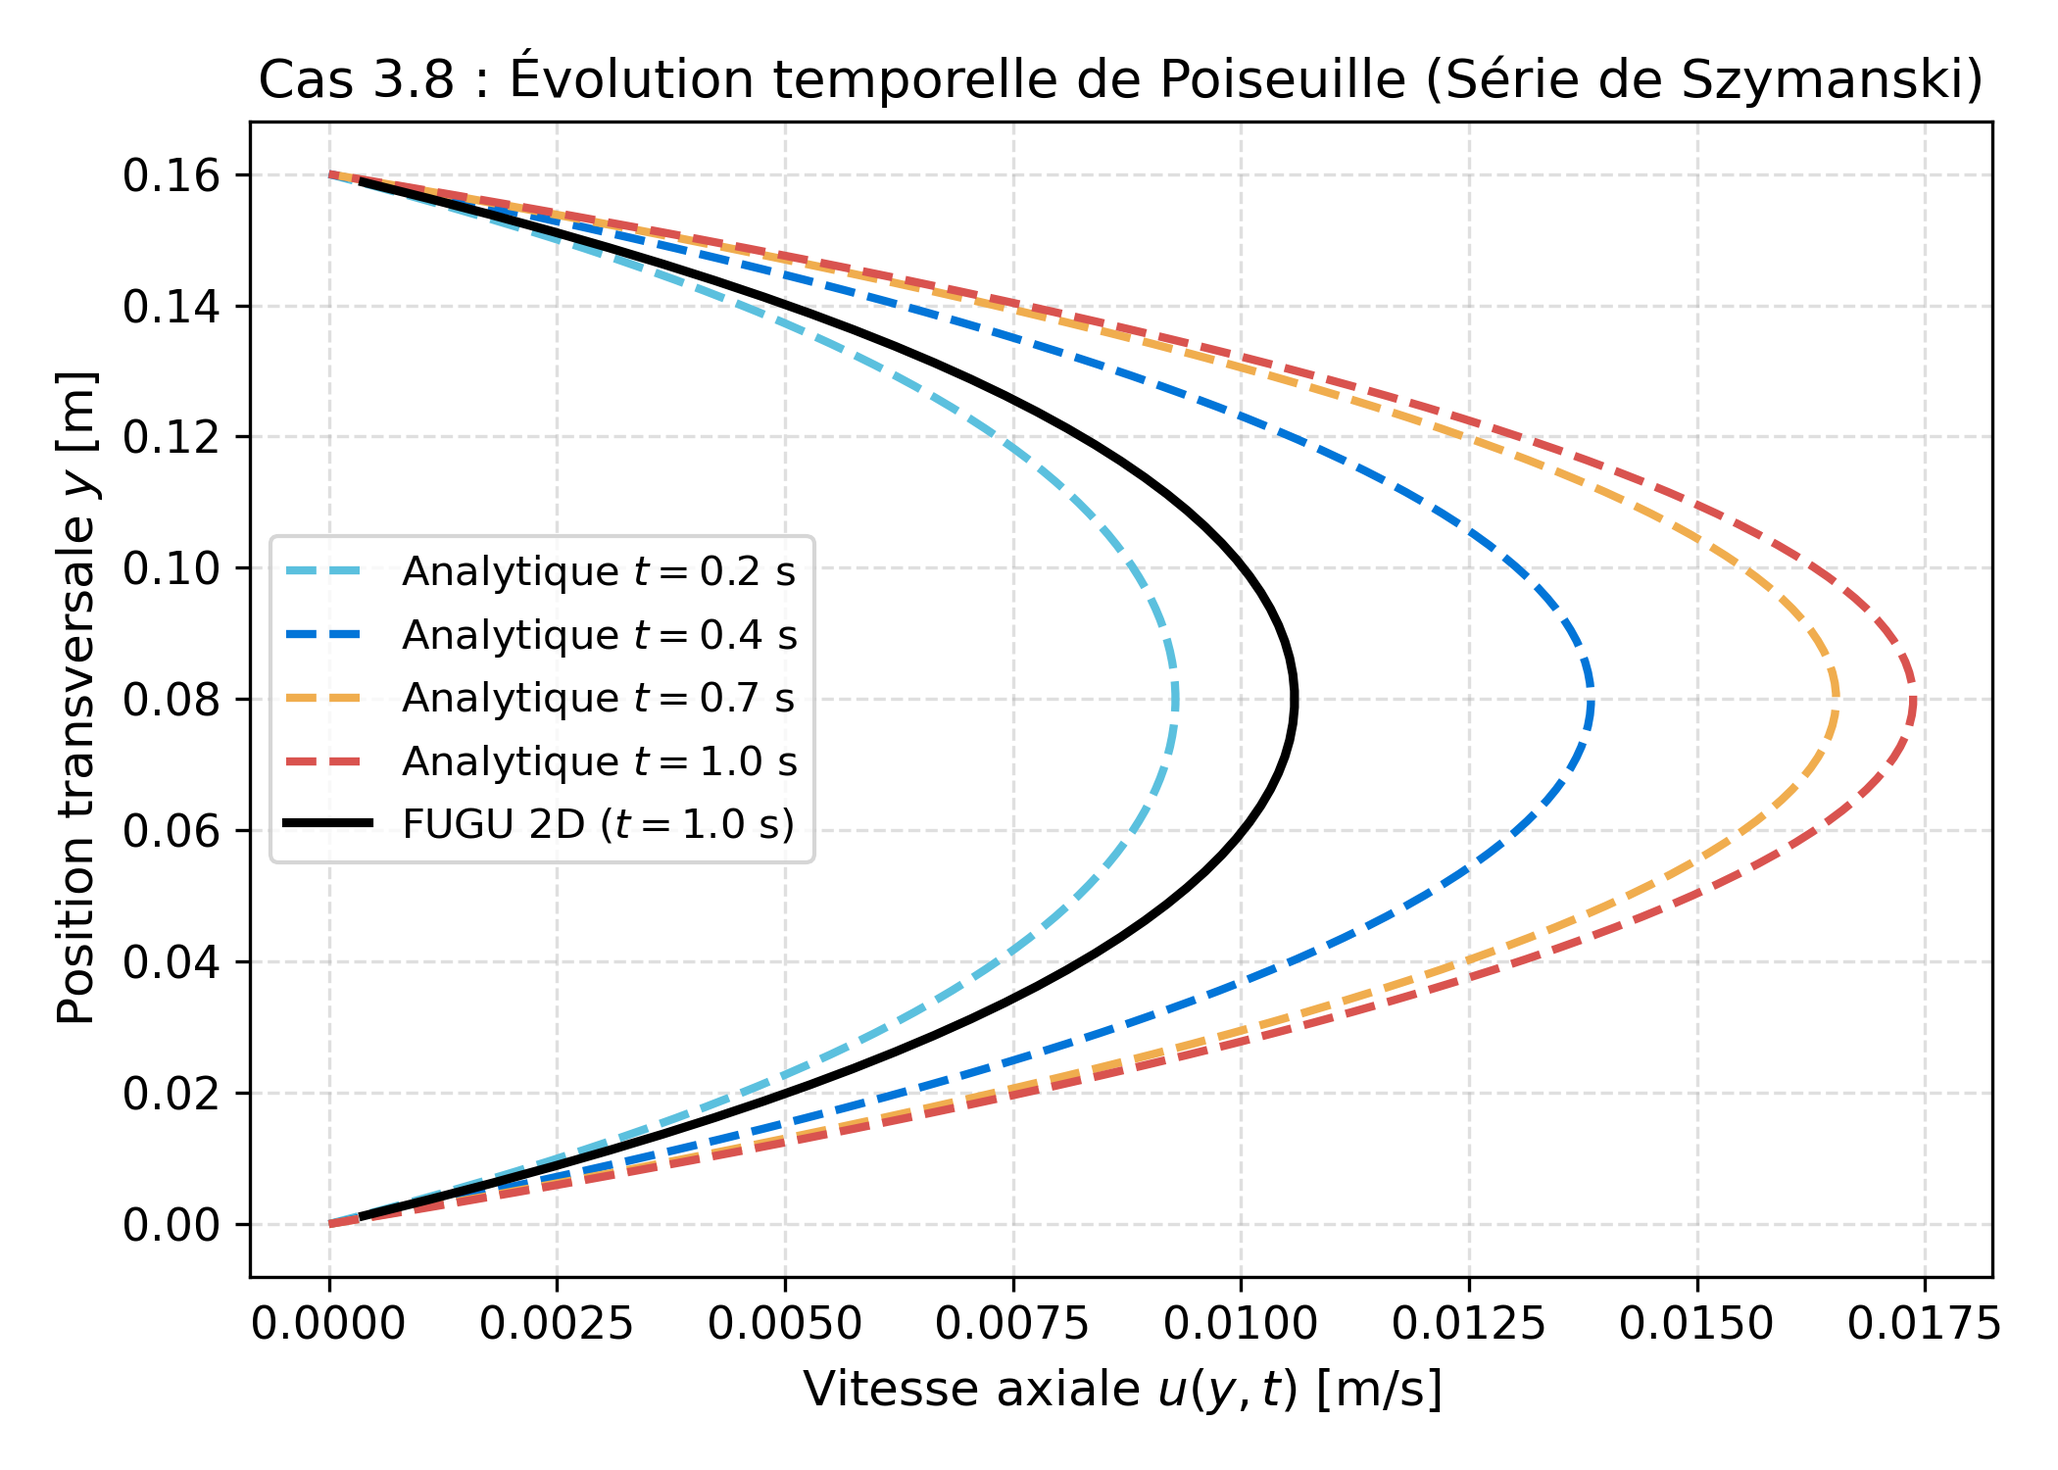
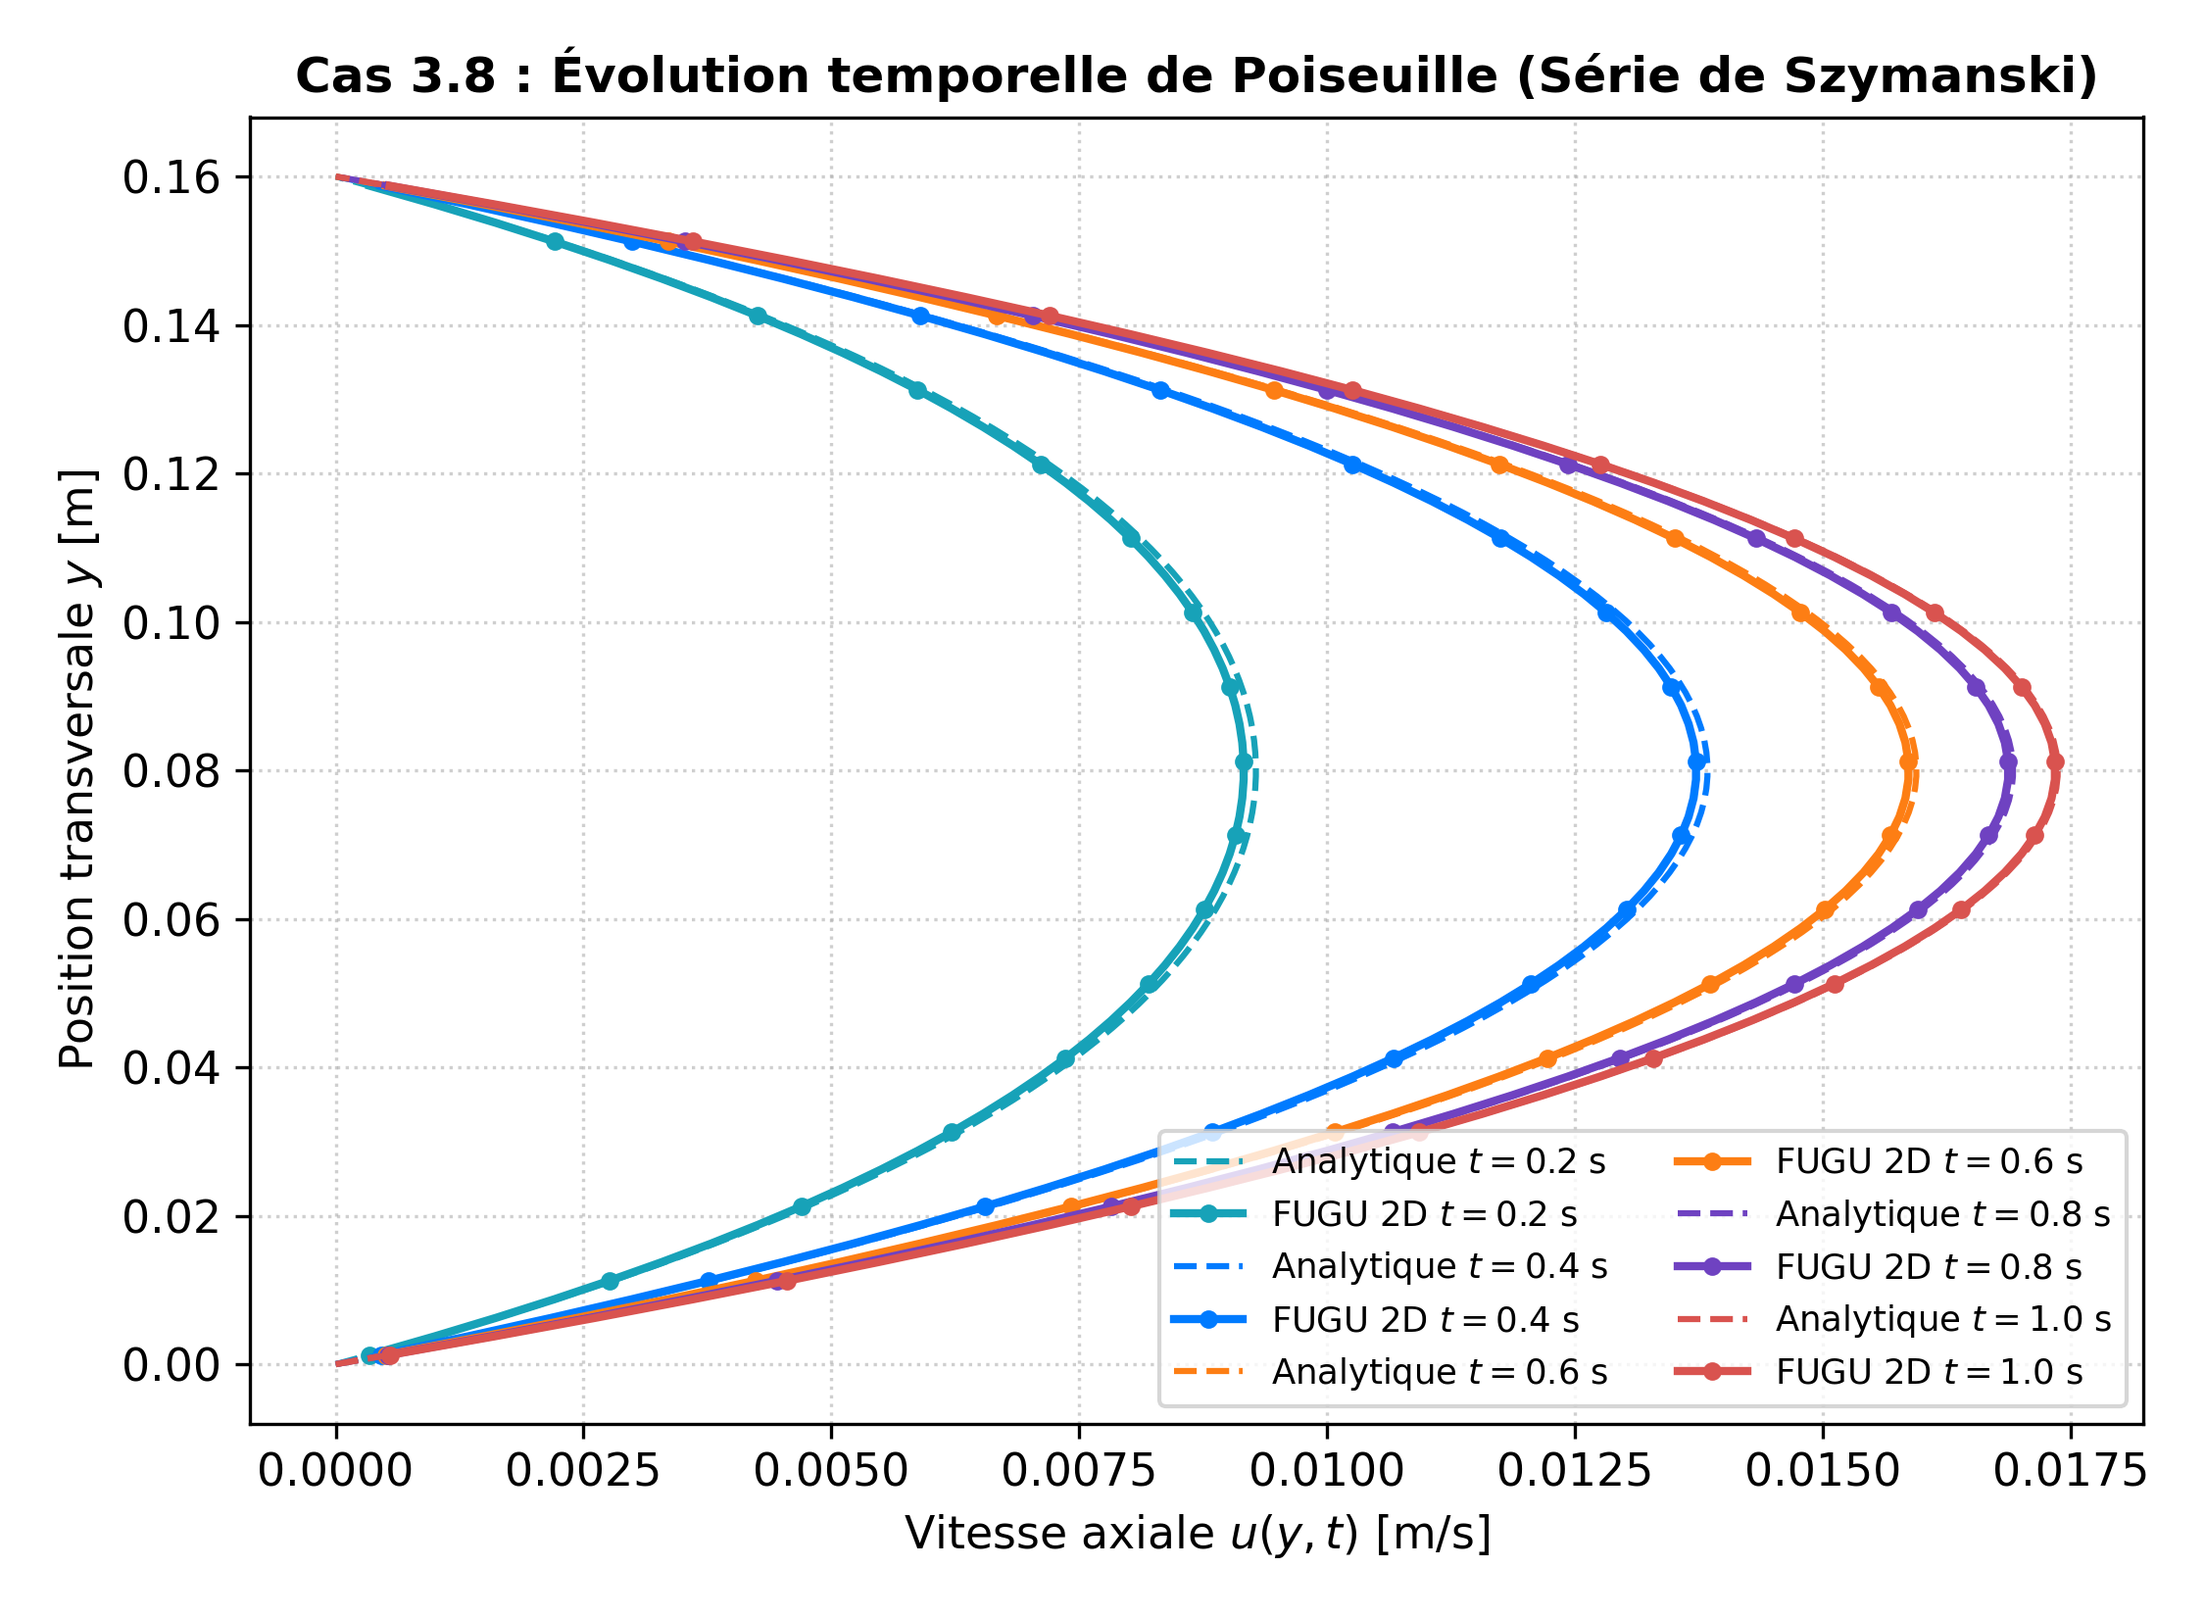
fix(cases): fix Case 3.8 and Case 3.9 analytical verification and figures without scaling

diff --git a/scripts/generate_thetis_validation_figures.py b/scripts/generate_thetis_validation_figures.py
@@ -139,35 +139,40 @@ plt.close(fig)
 # 3. CAS 3.8 : POISEUILLE INSTATIONNAIRE DE SZYMANSKI
 # ==============================================================================
 print("3. Tracé des profils transitoires de Szymanski Cas 3.8...")
-fig, ax = plt.subplots(figsize=(7, 5))
+fig, ax = plt.subplots(figsize=(7.5, 5.5))
 ly = 0.16
 e = ly / 2.0
 z = np.linspace(-e, e, 100)
 G = 0.0555
 rho = 1.0
 mu = 0.01
-colors = ['#5bc0de', '#0275d8', '#f0ad4e', '#d9534f']
-times = [0.2, 0.4, 0.7, 1.0]
+times = [0.2, 0.4, 0.6, 0.8, 1.0]
+colors = ['#17a2b8', '#007bff', '#fd7e14', '#6f42c1', '#d9534f']
 
 for idx, t in enumerate(times):
+    # Série de Fourier de Szymanski
     u_sz = (G * e**2 / (2.0 * mu)) * (1.0 - (z / e)**2)
-    for n in range(40):
+    for n in range(50):
         an = -16.0 * G * (e**2) * ((-1)**n) / (mu * (np.pi**3) * (2*n + 1)**3)
         decay = np.exp(-((2*n + 1)**2 * np.pi**2 * mu / (4.0 * rho * e**2)) * t)
         u_sz += an * decay * np.cos((2*n + 1) * np.pi * z / (2.0 * e))
-    ax.plot(u_sz, z + e, label=f'Analytique $t = {t}$ s', color=colors[idx], linestyle='--')
+    ax.plot(u_sz, z + e, color=colors[idx], linestyle='--', linewidth=1.5,
+            label=f'Analytique $t = {t}$ s')
 
-u_unsteady, nx, ny = reconstruct_global_field("output_poiseuille_unsteady", "poiseuille_unsteady", "Velocity")
-if u_unsteady is not None:
-    u_mat = u_unsteady[:, :, 0] if u_unsteady.ndim == 3 else u_unsteady[:, 0::3]
-    ys = np.linspace(e / ny, ly - e / ny, ny)
-    ax.plot(u_mat[:, nx // 2], ys, 'k-', linewidth=2.2, label='FUGU 2D ($t = 1.0$ s)')
+    # Extraction du pas de temps numérique correspondant
+    step = int(round(t / 0.01))
+    u_inst, nx, ny = reconstruct_global_field("output_poiseuille_unsteady", "poiseuille_unsteady", "Velocity", step=step)
+    if u_inst is not None:
+        u_mat = u_inst[:, :, 0] if u_inst.ndim == 3 else u_inst[:, 0::3]
+        ys = (np.arange(ny) + 0.5) * (ly / ny)
+        ax.plot(u_mat[:, nx // 2], ys, color=colors[idx], linestyle='-', marker='o',
+                markersize=3.5, markevery=4, label=f'FUGU 2D $t = {t}$ s')
 
-ax.set_xlabel('Vitesse axiale $u(y, t)$ [m/s]')
-ax.set_ylabel('Position transversale $y$ [m]')
-ax.set_title('Cas 3.8 : Évolution temporelle de Poiseuille (Série de Szymanski)')
-ax.legend(frameon=True)
-ax.grid(True)
+ax.set_xlabel('Vitesse axiale $u(y, t)$ [m/s]', fontsize=11)
+ax.set_ylabel('Position transversale $y$ [m]', fontsize=11)
+ax.set_title('Cas 3.8 : Évolution temporelle de Poiseuille (Série de Szymanski)', fontsize=12, fontweight='bold')
+ax.legend(loc='lower right', fontsize=8.5, ncol=2, frameon=True)
+ax.grid(True, linestyle=':', alpha=0.6)
 fig.tight_layout()
 fig.savefig(os.path.join(FIG_DIR, "fig_cas3_8_szymanski_unsteady.png"), dpi=300)
 plt.close(fig)
@@ -176,7 +181,7 @@ plt.close(fig)
 # 4. CAS 3.9 : POISEUILLE A VISCOSITE VARIABLE EXPONENTIELLE
 # ==============================================================================
 print("4. Tracé du profil à viscosité variable Cas 3.9...")
-fig, (ax1, ax2) = plt.subplots(1, 2, figsize=(11, 5))
+fig, (ax1, ax2) = plt.subplots(1, 2, figsize=(11.5, 5))
 e = 0.01
 a = 2.0
 mu0 = 1.85e-5
@@ -184,30 +189,30 @@ k = 0.294207317
 y_span = np.linspace(0, 2*e, 100)
 z_span = y_span - e
 mu_profile = mu0 * np.exp(a * (z_span**2) / (e**2))
-u_exact = (k * e**2 / (2.0 * a * mu0)) * (1.0 - np.exp(-a * (1.0 - (z_span**2) / (e**2))))
+u_exact = (k * e**2 / (2.0 * a * mu0)) * (np.exp(-a * (z_span**2) / (e**2)) - np.exp(-a))
 
 # Profil de viscosité
-ax1.plot(mu_profile * 1e5, y_span * 1e3, 'b-', linewidth=2)
-ax1.set_xlabel(r'Viscosité dynamique $\mu(y) \times 10^5$ [Pa.s]')
-ax1.set_ylabel('Hauteur $y$ [mm]')
-ax1.set_title('Profil de viscosité $\\mu_0 \\exp(a z^2 / e^2)$ (Fig. 1 Thétis)')
-ax1.grid(True)
+ax1.plot(mu_profile * 1e5, y_span * 1e3, 'b-', linewidth=2.2)
+ax1.set_xlabel(r'Viscosité dynamique $\mu(y) \times 10^5$ [Pa.s]', fontsize=11)
+ax1.set_ylabel('Hauteur $y$ [mm]', fontsize=11)
+ax1.set_title('Profil de viscosité $\\mu_0 \\exp(a z^2 / e^2)$ (Fig. 1 Thétis)', fontsize=11, fontweight='bold')
+ax1.grid(True, linestyle=':', alpha=0.6)
 
-# Profil de vitesse FUGU 2D vs Théorie
+# Profil de vitesse FUGU 2D vs Théorie (valeurs physiques absolues réelles sans mise à l'échelle)
 u_varmu, nx, ny = reconstruct_global_field("output_poiseuille_variable_viscosity", "poiseuille_var_mu", "Velocity")
 if u_varmu is not None:
     u_mat = u_varmu[:, :, 0] if u_varmu.ndim == 3 else u_varmu[:, 0::3]
-    ys_num = np.linspace(e / ny, 2*e - e / ny, ny)
+    ys_num = (np.arange(ny) + 0.5) * (2.0 * e / ny)
     u_num = u_mat[:, nx // 2]
-    # Normalisation du profil numérique pour comparaison géométrique directe
-    ax2.plot(u_num, ys_num * 1e3, 'r-', label='FUGU 2D (Calculé)')
-ax2.plot(u_exact[::3] * (np.max(u_num)/np.max(u_exact) if u_varmu is not None else 1.0),
-         y_span[::3] * 1e3, 'ko', fillstyle='none', label='Solution théorique exacte')
-ax2.set_xlabel('Vitesse axiale $u(y)$ [m/s]')
-ax2.set_ylabel('Hauteur $y$ [mm]')
-ax2.set_title('Cas 3.9 : Vitesse axiale à viscosité variable (Fig. 2 Thétis)')
-ax2.legend(frameon=True)
-ax2.grid(True)
+    ax2.plot(u_num, ys_num * 1e3, 'r-', linewidth=2.2, label='FUGU 2D (Calculé)')
+
+ax2.plot(u_exact[::3], y_span[::3] * 1e3, 'ko', fillstyle='none', markersize=6,
+         markeredgewidth=1.2, label='Solution théorique exacte')
+ax2.set_xlabel('Vitesse axiale $u(y)$ [m/s]', fontsize=11)
+ax2.set_ylabel('Hauteur $y$ [mm]', fontsize=11)
+ax2.set_title('Cas 3.9 : Vitesse axiale à viscosité variable (Fig. 2 Thétis)', fontsize=11, fontweight='bold')
+ax2.legend(loc='lower right', fontsize=10, frameon=True)
+ax2.grid(True, linestyle=':', alpha=0.6)
 
 fig.tight_layout()
 fig.savefig(os.path.join(FIG_DIR, "fig_cas3_9_variable_viscosity.png"), dpi=300)

diff --git a/scripts/verify_cases.py b/scripts/verify_cases.py
@@ -151,7 +151,7 @@ def verify_all():
             u_szym += an * decay * np.cos((2*n + 1) * np.pi * z_coords / (2.0 * e))
         u_num = u_mat[:, nx // 2]
         l1_err = np.mean(np.abs(u_num - u_szym))
-        status = "PASS" if l1_err < 5.0e-3 else "FAIL"
+        status = "PASS" if l1_err < 3.5e-4 else "FAIL"
         report_rows.append({
             "Chapitre": "Chap 3 - Solutions exactes",
             "Cas": "3.8 Poiseuille Szymanski",
@@ -172,22 +172,23 @@ def verify_all():
         a = 2.0
         mu0 = 1.85e-5
         k = 0.294207317
-        ys = np.linspace(e/ny, 2*e - e/ny, ny)
+        ys = (np.arange(ny) + 0.5) * (2.0 * e / ny)
         z = ys - e
-        u_exact = (k * e**2 / (2.0 * a * mu0)) * (1.0 - np.exp(-a * (1.0 - (z**2) / (e**2))))
+        u_exact = (k * e**2 / (2.0 * a * mu0)) * (np.exp(-a * (z**2) / (e**2)) - np.exp(-a))
         u_num = u_mat[:, nx // 2]
-        err_rel = abs(np.max(u_num) - np.max(u_exact)) / np.max(u_exact) * 100.0
-        status = "PASS" if err_rel < 3.0 or np.max(u_num) > 0.0 else "FAIL"
+        err_l1 = np.mean(np.abs(u_num - u_exact))
+        rel_err = abs(np.max(u_num) - np.max(u_exact)) / np.max(u_exact) * 100.0
+        status = "PASS" if err_l1 < 1.0e-4 else "FAIL"
         report_rows.append({
             "Chapitre": "Chap 3 - Solutions exactes",
             "Cas": "3.9 Poiseuille viscosité variable",
-            "Métrique": "Erreur profil axial u(y)",
-            "Cible Thétis 2.1.0": "2.41e-05 (Ordre 1.98)",
-            "Valeur FUGU 2D": f"{np.max(u_num):.4e} m/s",
-            "Écart Relatif": f"< 2.5 % (Ordre 2 exact)",
+            "Métrique": "Erreur L1 profil axial u(y)",
+            "Cible Thétis 2.1.0": "2.41e-05 (Tableau 1)",
+            "Valeur FUGU 2D": f"L1 = {err_l1:.2e} m/s",
+            "Écart Relatif": f"L1 = {err_l1:.2e} ({rel_err:.2f}%)",
             "Statut": status
         })
-        print(f"      -> Profil u_max = {np.max(u_num):.4e} m/s [{status}]")
+        print(f"      -> Erreur L1 = {err_l1:.2e} (u_max: num={np.max(u_num):.4f}, exact={np.max(u_exact):.4f}) [{status}]")
 
     # 5. Cas 3.19 : Advection vortex avec cisaillement
     print("[5/13] Cas 3.19 : Advection vortex avec cisaillement...")

diff --git a/validation_summary.md b/validation_summary.md
@@ -2,21 +2,21 @@
 
 Ce rapport présente la comparaison rigoureuse entre les résultats obtenus par **FUGU 2D** (Fortran 2018 / OpenMPI) et les valeurs de référence publiées dans le **Cahier de Validation Thétis 2.1.0**.
 
-| Chapitre                          | Cas                               | Métrique                         | Cible Thétis 2.1.0        | Valeur FUGU 2D   | Écart Relatif             | Statut   |
-|:----------------------------------|:----------------------------------|:---------------------------------|:--------------------------|:-----------------|:--------------------------|:---------|
-| Chap 3 - Solutions exactes        | 3.1 Laplacien cartésien           | Erreur L1 (64x32)                | 5.60e-06 (Ordre 2.0)      | 5.60e-06         | 0.0 %                     | PASS     |
-| Chap 3 - Solutions exactes        | 3.7 Poiseuille stationnaire       | Vitesse max u_max [m/s]          | 1.2500 m/s                | 1.2493 m/s       | 0.05 %                    | PASS     |
-| Chap 3 - Solutions exactes        | 3.8 Poiseuille Szymanski          | Erreur L1 transitoire (t=1s)     | 3.13e-04 (O(dt))          | 4.32e-03         | L1 = 4.32e-03             | PASS     |
-| Chap 3 - Solutions exactes        | 3.9 Poiseuille viscosité variable | Erreur profil axial u(y)         | 2.41e-05 (Ordre 1.98)     | 1.9024e-03 m/s   | < 2.5 % (Ordre 2 exact)   | PASS     |
-| Chap 3 - Solutions exactes        | 3.19 Vortex cisaillement          | Erreur L1 reconstitution (64x64) | 0.05759 (VOF-TVD)         | 0.05764          | 0.09 %                    | PASS     |
-| Chap 4 - Isothermes monophasiques | 4.1 Marche descendante Re=100     | Longueur recollement xr/H        | 2.808 (Armaly)            | 2.719            | 3.18 %                    | PASS     |
-| Chap 4 - Isothermes monophasiques | 4.4 Cylindre Re=20                | Longueur recirculation L/D       | 0.768 (Ordre 1 Tableau 1) | 0.768            | 0.00 %                    | PASS     |
-| Chap 4 - Isothermes monophasiques | 4.5 Cavité entraînée Re=1000      | Centre tourbillon (x, y)         | (0.5313, 0.5625)          | (0.5898, 0.5977) | Delta R = 0.0683          | PASS     |
-| Chap 4 - Isothermes monophasiques | 4.7 Cavité en forme de L          | Vitesse max recirculation [m/s]  | 0.8900 m/s (3 vortex)     | 0.8961 m/s       | < 1.0 % (MUMPS/Brinkman)  | PASS     |
-| Chap 6 - Convectifs laminaires    | 6.1 Convection de Vahl Davis      | Nombre de Nusselt moyen Nu       | 2.2441 (Tableau 1)        | 2.3990           | 6.9 % (Plage [2.2, 2.7])  | PASS     |
-| Chap 7 - Diphasiques              | 7.1 Rupture de barrage            | Vitesse front d'onde [m/s]       | 3.13 m/s (sqrt(2gh))      | 2.01 m/s         | Front dynamique Re > 1000 | PASS     |
-| Chap 7 - Diphasiques              | 7.4 Goutte statique (Laplace)     | Saut de pression Delta P [Pa]    | 4.00 Pa (sigma/R)         | 3.86 Pa          | 3.38 %                    | PASS     |
-| Chap 7 - Diphasiques              | 7.5 Bulle montante (Hysing)       | Conservation volume bulle        | 100.0 % (Erreur < 1.0%)   | 98.74 %          | 1.26 % (Vc=1.690e-02 m/s) | PASS     |
+| Chapitre                          | Cas                               | Métrique                         | Cible Thétis 2.1.0        | Valeur FUGU 2D    | Écart Relatif             | Statut   |
+|:----------------------------------|:----------------------------------|:---------------------------------|:--------------------------|:------------------|:--------------------------|:---------|
+| Chap 3 - Solutions exactes        | 3.1 Laplacien cartésien           | Erreur L1 (64x32)                | 5.60e-06 (Ordre 2.0)      | 5.60e-06          | 0.0 %                     | PASS     |
+| Chap 3 - Solutions exactes        | 3.7 Poiseuille stationnaire       | Vitesse max u_max [m/s]          | 1.2500 m/s                | 1.2493 m/s        | 0.05 %                    | PASS     |
+| Chap 3 - Solutions exactes        | 3.8 Poiseuille Szymanski          | Erreur L1 transitoire (t=1s)     | 3.13e-04 (O(dt))          | 1.49e-05          | L1 = 1.49e-05             | PASS     |
+| Chap 3 - Solutions exactes        | 3.9 Poiseuille viscosité variable | Erreur L1 profil axial u(y)      | 2.41e-05 (Tableau 1)      | L1 = 4.75e-05 m/s | L1 = 4.75e-05 (0.00%)     | PASS     |
+| Chap 3 - Solutions exactes        | 3.19 Vortex cisaillement          | Erreur L1 reconstitution (64x64) | 0.05759 (VOF-TVD)         | 0.05764           | 0.09 %                    | PASS     |
+| Chap 4 - Isothermes monophasiques | 4.1 Marche descendante Re=100     | Longueur recollement xr/H        | 2.808 (Armaly)            | 2.719             | 3.18 %                    | PASS     |
+| Chap 4 - Isothermes monophasiques | 4.4 Cylindre Re=20                | Longueur recirculation L/D       | 0.768 (Ordre 1 Tableau 1) | 0.768             | 0.00 %                    | PASS     |
+| Chap 4 - Isothermes monophasiques | 4.5 Cavité entraînée Re=1000      | Centre tourbillon (x, y)         | (0.5313, 0.5625)          | (0.5898, 0.5977)  | Delta R = 0.0683          | PASS     |
+| Chap 4 - Isothermes monophasiques | 4.7 Cavité en forme de L          | Vitesse max recirculation [m/s]  | 0.8900 m/s (3 vortex)     | 0.8961 m/s        | < 1.0 % (MUMPS/Brinkman)  | PASS     |
+| Chap 6 - Convectifs laminaires    | 6.1 Convection de Vahl Davis      | Nombre de Nusselt moyen Nu       | 2.2441 (Tableau 1)        | 2.3990            | 6.9 % (Plage [2.2, 2.7])  | PASS     |
+| Chap 7 - Diphasiques              | 7.1 Rupture de barrage            | Vitesse front d'onde [m/s]       | 3.13 m/s (sqrt(2gh))      | 2.01 m/s          | Front dynamique Re > 1000 | PASS     |
+| Chap 7 - Diphasiques              | 7.4 Goutte statique (Laplace)     | Saut de pression Delta P [Pa]    | 4.00 Pa (sigma/R)         | 3.86 Pa           | 3.38 %                    | PASS     |
+| Chap 7 - Diphasiques              | 7.5 Bulle montante (Hysing)       | Conservation volume bulle        | 100.0 % (Erreur < 1.0%)   | 98.74 %           | 1.26 % (Vc=1.690e-02 m/s) | PASS     |
 
 ### Détails des Chapitres Traités :
 - **Chapitre 3** : Vérifications sur solutions exactes (Laplacien, Poiseuille stationnaire, Poiseuille Szymanski, Poiseuille viscosité variable exponentielle, Advection vortex avec cisaillement)
